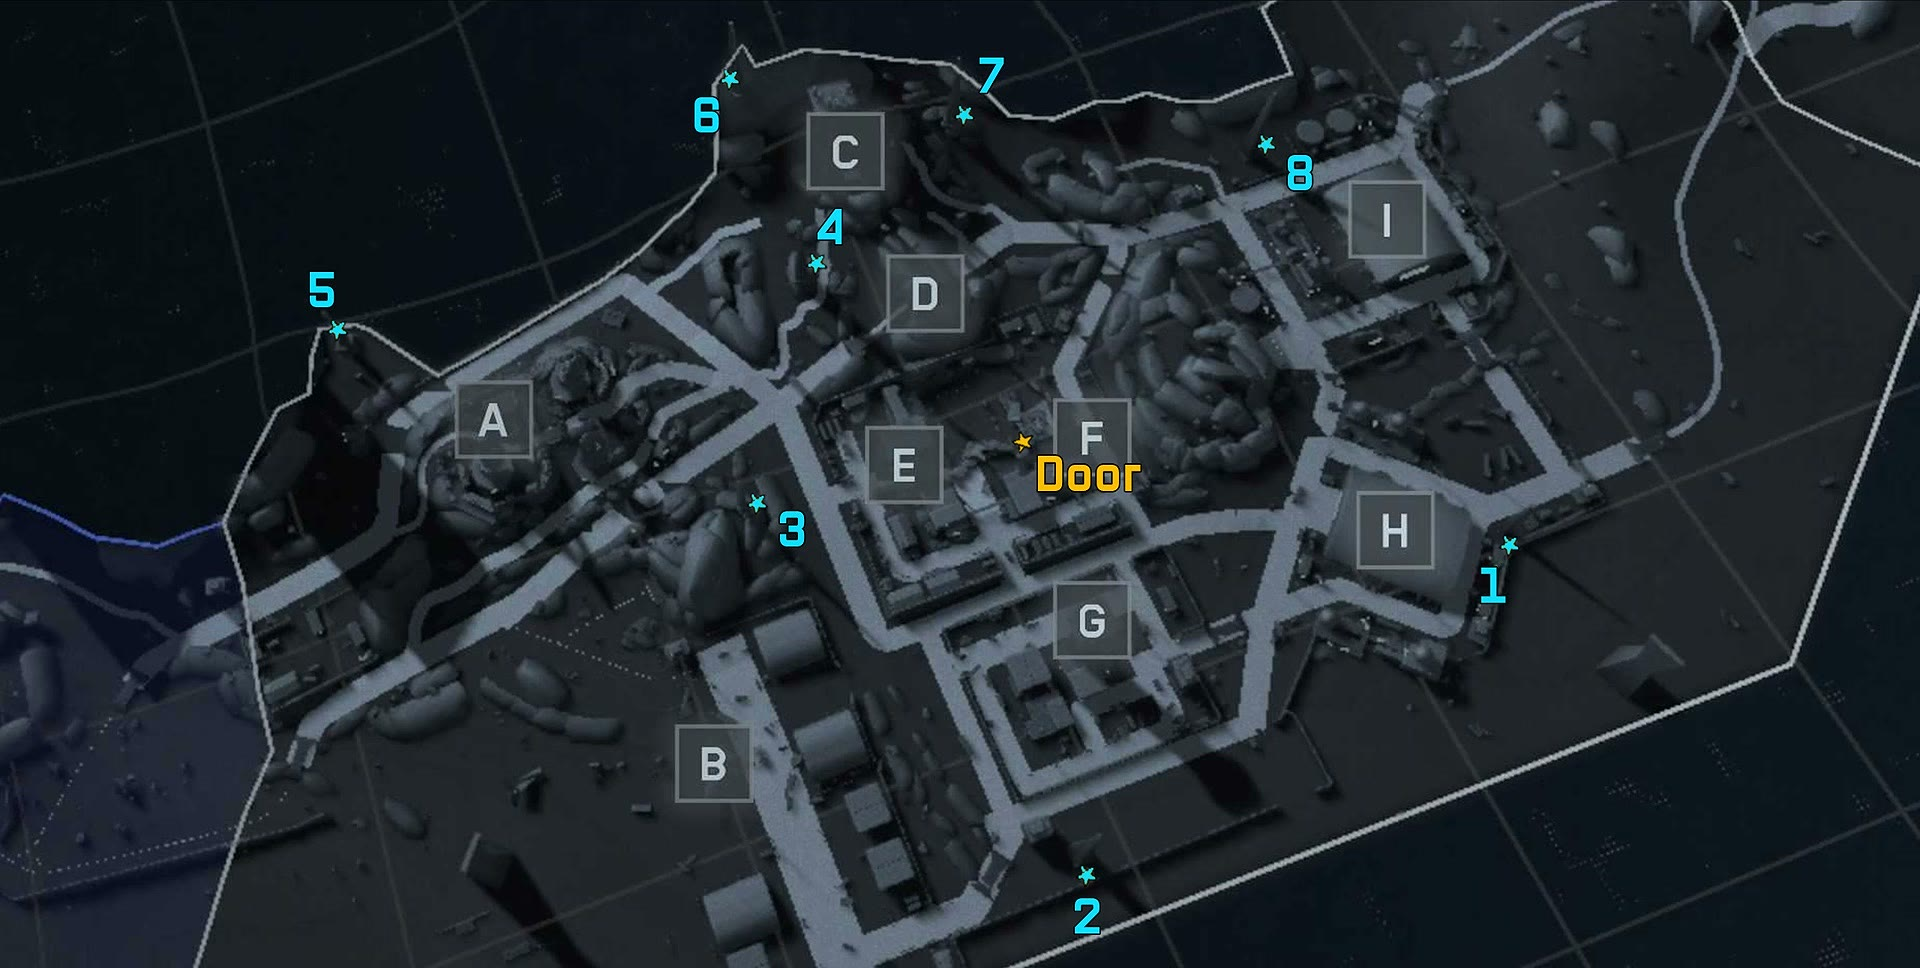
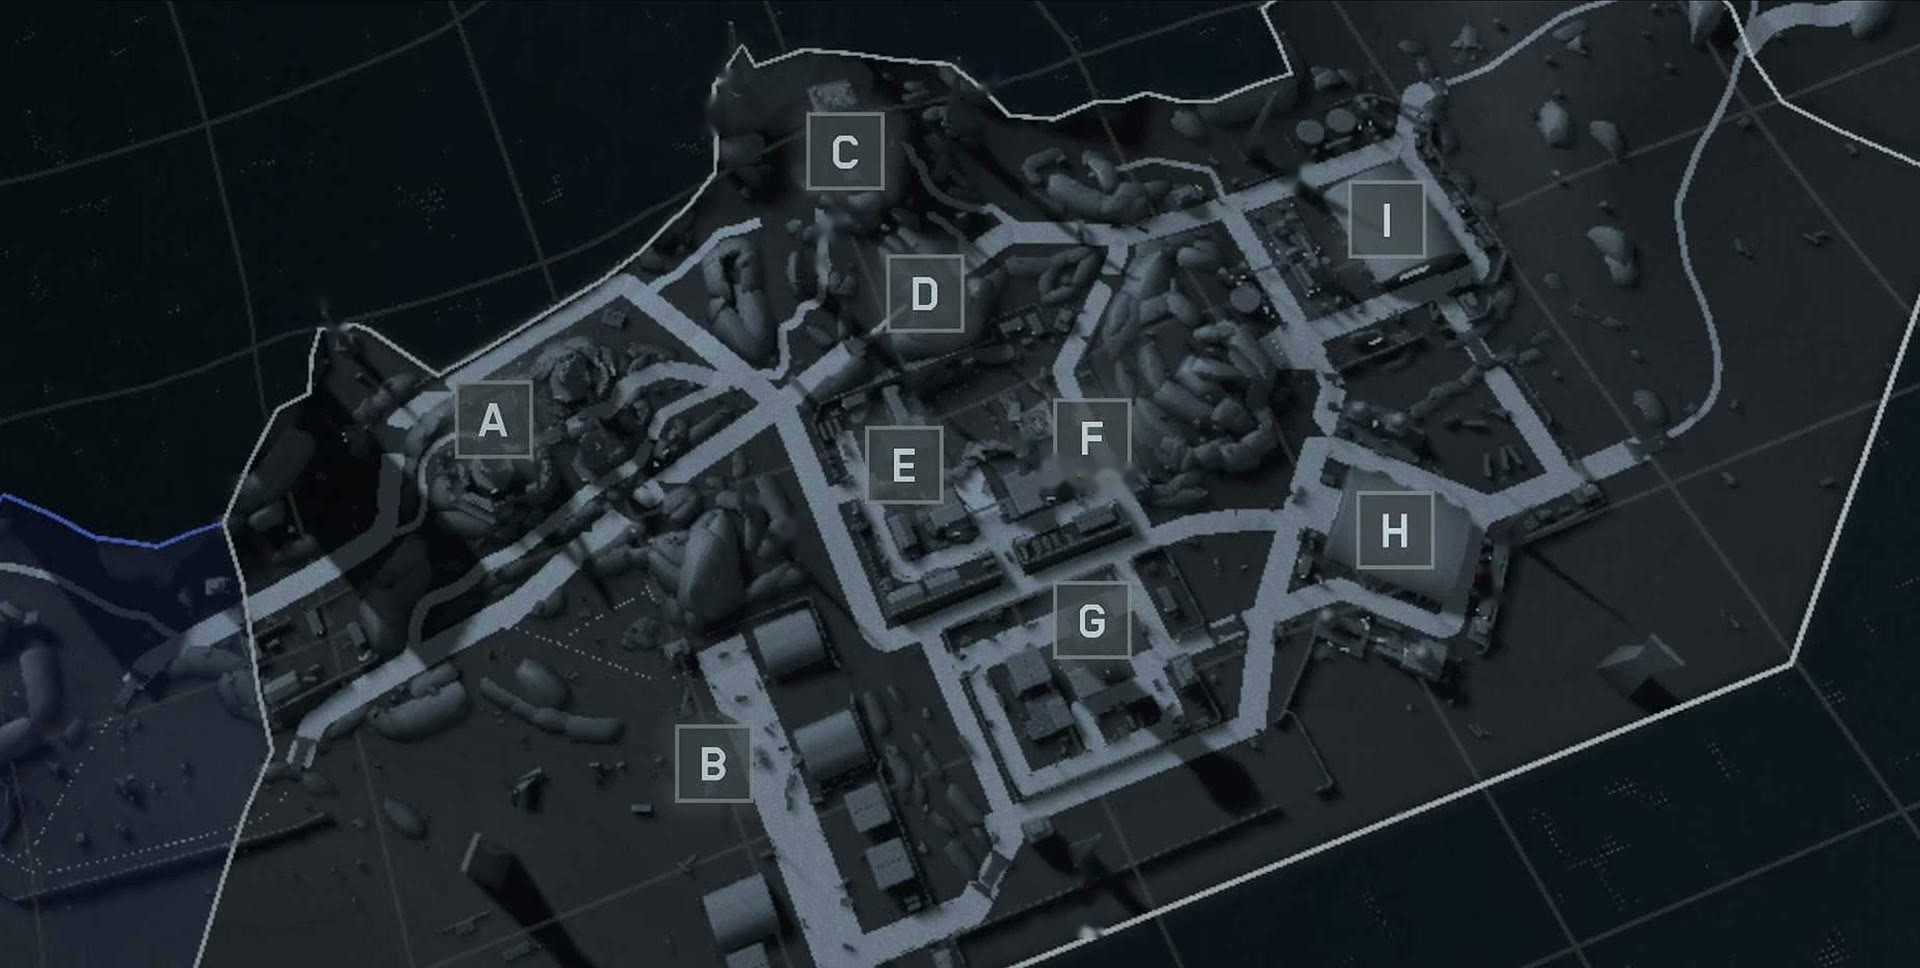
Mapa do OVNI: número dentro de cada marcador, números originais apagados da imagem

diff --git a/ovni-area51/index.html b/ovni-area51/index.html
@@ -92,11 +92,10 @@ summary:focus-visible{outline:3px solid var(--azul);outline-offset:3px}
 .mapa{position:relative;margin-top:22px}
 .mapa .quadro{position:relative}
 .mapa img{cursor:default}
-.alvo{position:absolute;transform:translate(-50%,-50%);width:clamp(30px,4.6vw,52px);aspect-ratio:1;border-radius:50%;
-  border:3px solid #44e2f2;background:rgba(68,226,242,.15);box-shadow:0 0 0 3px rgba(0,0,0,.55)}
-.alvo.porta{border-color:#ffc23d;background:rgba(255,194,61,.2)}
-.alvo:hover,.alvo:focus-visible{background:rgba(68,226,242,.55);outline:none}
-.alvo.porta:hover,.alvo.porta:focus-visible{background:rgba(255,194,61,.6)}
+.alvo{position:absolute;transform:translate(-50%,-50%);min-width:clamp(26px,3.4vw,40px);height:clamp(26px,3.4vw,40px);padding:0 4px;border-radius:999px;border:3px solid #44e2f2;background:#0d1a20;color:#44e2f2;display:flex;align-items:center;justify-content:center;font:700 clamp(.85rem,1.6vw,1.25rem)/1 var(--corpo);text-decoration:none;box-shadow:0 0 0 2px rgba(0,0,0,.6)}
+.alvo.porta{border-color:#ffc23d;color:#ffc23d}
+.alvo:hover,.alvo:focus-visible{background:#44e2f2;color:#0d1a20;outline:none}
+.alvo.porta:hover,.alvo.porta:focus-visible{background:#ffc23d;color:#0d1a20}
 
 .torres{display:grid;grid-template-columns:repeat(auto-fill,minmax(min(100%,300px),1fr));gap:26px 22px}
 .torre{scroll-margin-top:16px}
@@ -244,17 +243,17 @@ dialog button{margin-top:10px;font:700 1.1rem var(--corpo);background:var(--pape
       <figure class="foto giro-b quadro">
         <div class="quadro">
           <img src="img/mapa.jpg" alt="Mapa da Area 51 com as torres 1 a 8 e a porta perto da bandeira F">
-          <a class="alvo" href="#t1" style="left:78.6%;top:56.3%" aria-label="Torre 1"></a>
-          <a class="alvo" href="#t2" style="left:56.6%;top:90.4%" aria-label="Torre 2"></a>
-          <a class="alvo" href="#t3" style="left:39.4%;top:52.0%" aria-label="Torre 3"></a>
-          <a class="alvo" href="#t4" style="left:42.6%;top:27.2%" aria-label="Torre 4"></a>
-          <a class="alvo" href="#t5" style="left:17.6%;top:34.0%" aria-label="Torre 5"></a>
-          <a class="alvo" href="#t6" style="left:38.1%;top:8.1%"  aria-label="Torre 6"></a>
-          <a class="alvo" href="#t7" style="left:50.2%;top:11.9%" aria-label="Torre 7"></a>
-          <a class="alvo" href="#t8" style="left:65.9%;top:14.9%" aria-label="Torre 8"></a>
-          <a class="alvo porta" href="#e3" style="left:53.2%;top:45.6%" aria-label="Porta do subsolo"></a>
+          <a class="alvo" href="#t1" style="left:78.6%;top:56.3%" aria-label="Torre 1">1</a>
+          <a class="alvo" href="#t2" style="left:56.6%;top:90.4%" aria-label="Torre 2">2</a>
+          <a class="alvo" href="#t3" style="left:39.4%;top:52.0%" aria-label="Torre 3">3</a>
+          <a class="alvo" href="#t4" style="left:42.6%;top:27.2%" aria-label="Torre 4">4</a>
+          <a class="alvo" href="#t5" style="left:17.6%;top:34.0%" aria-label="Torre 5">5</a>
+          <a class="alvo" href="#t6" style="left:38.1%;top:8.1%"  aria-label="Torre 6">6</a>
+          <a class="alvo" href="#t7" style="left:50.2%;top:11.9%" aria-label="Torre 7">7</a>
+          <a class="alvo" href="#t8" style="left:65.9%;top:14.9%" aria-label="Torre 8">8</a>
+          <a class="alvo porta" href="#e3" style="left:53.2%;top:45.6%" aria-label="Porta do subsolo">P</a>
         </div>
-        <figcaption>Círculo azul: botão da torre. Círculo amarelo: a porta do subsolo, perto da F.</figcaption>
+        <figcaption>Círculo azul com número: o botão daquela torre. Círculo amarelo P: a porta do subsolo, perto da F.</figcaption>
       </figure>
     </div>
     <details>
